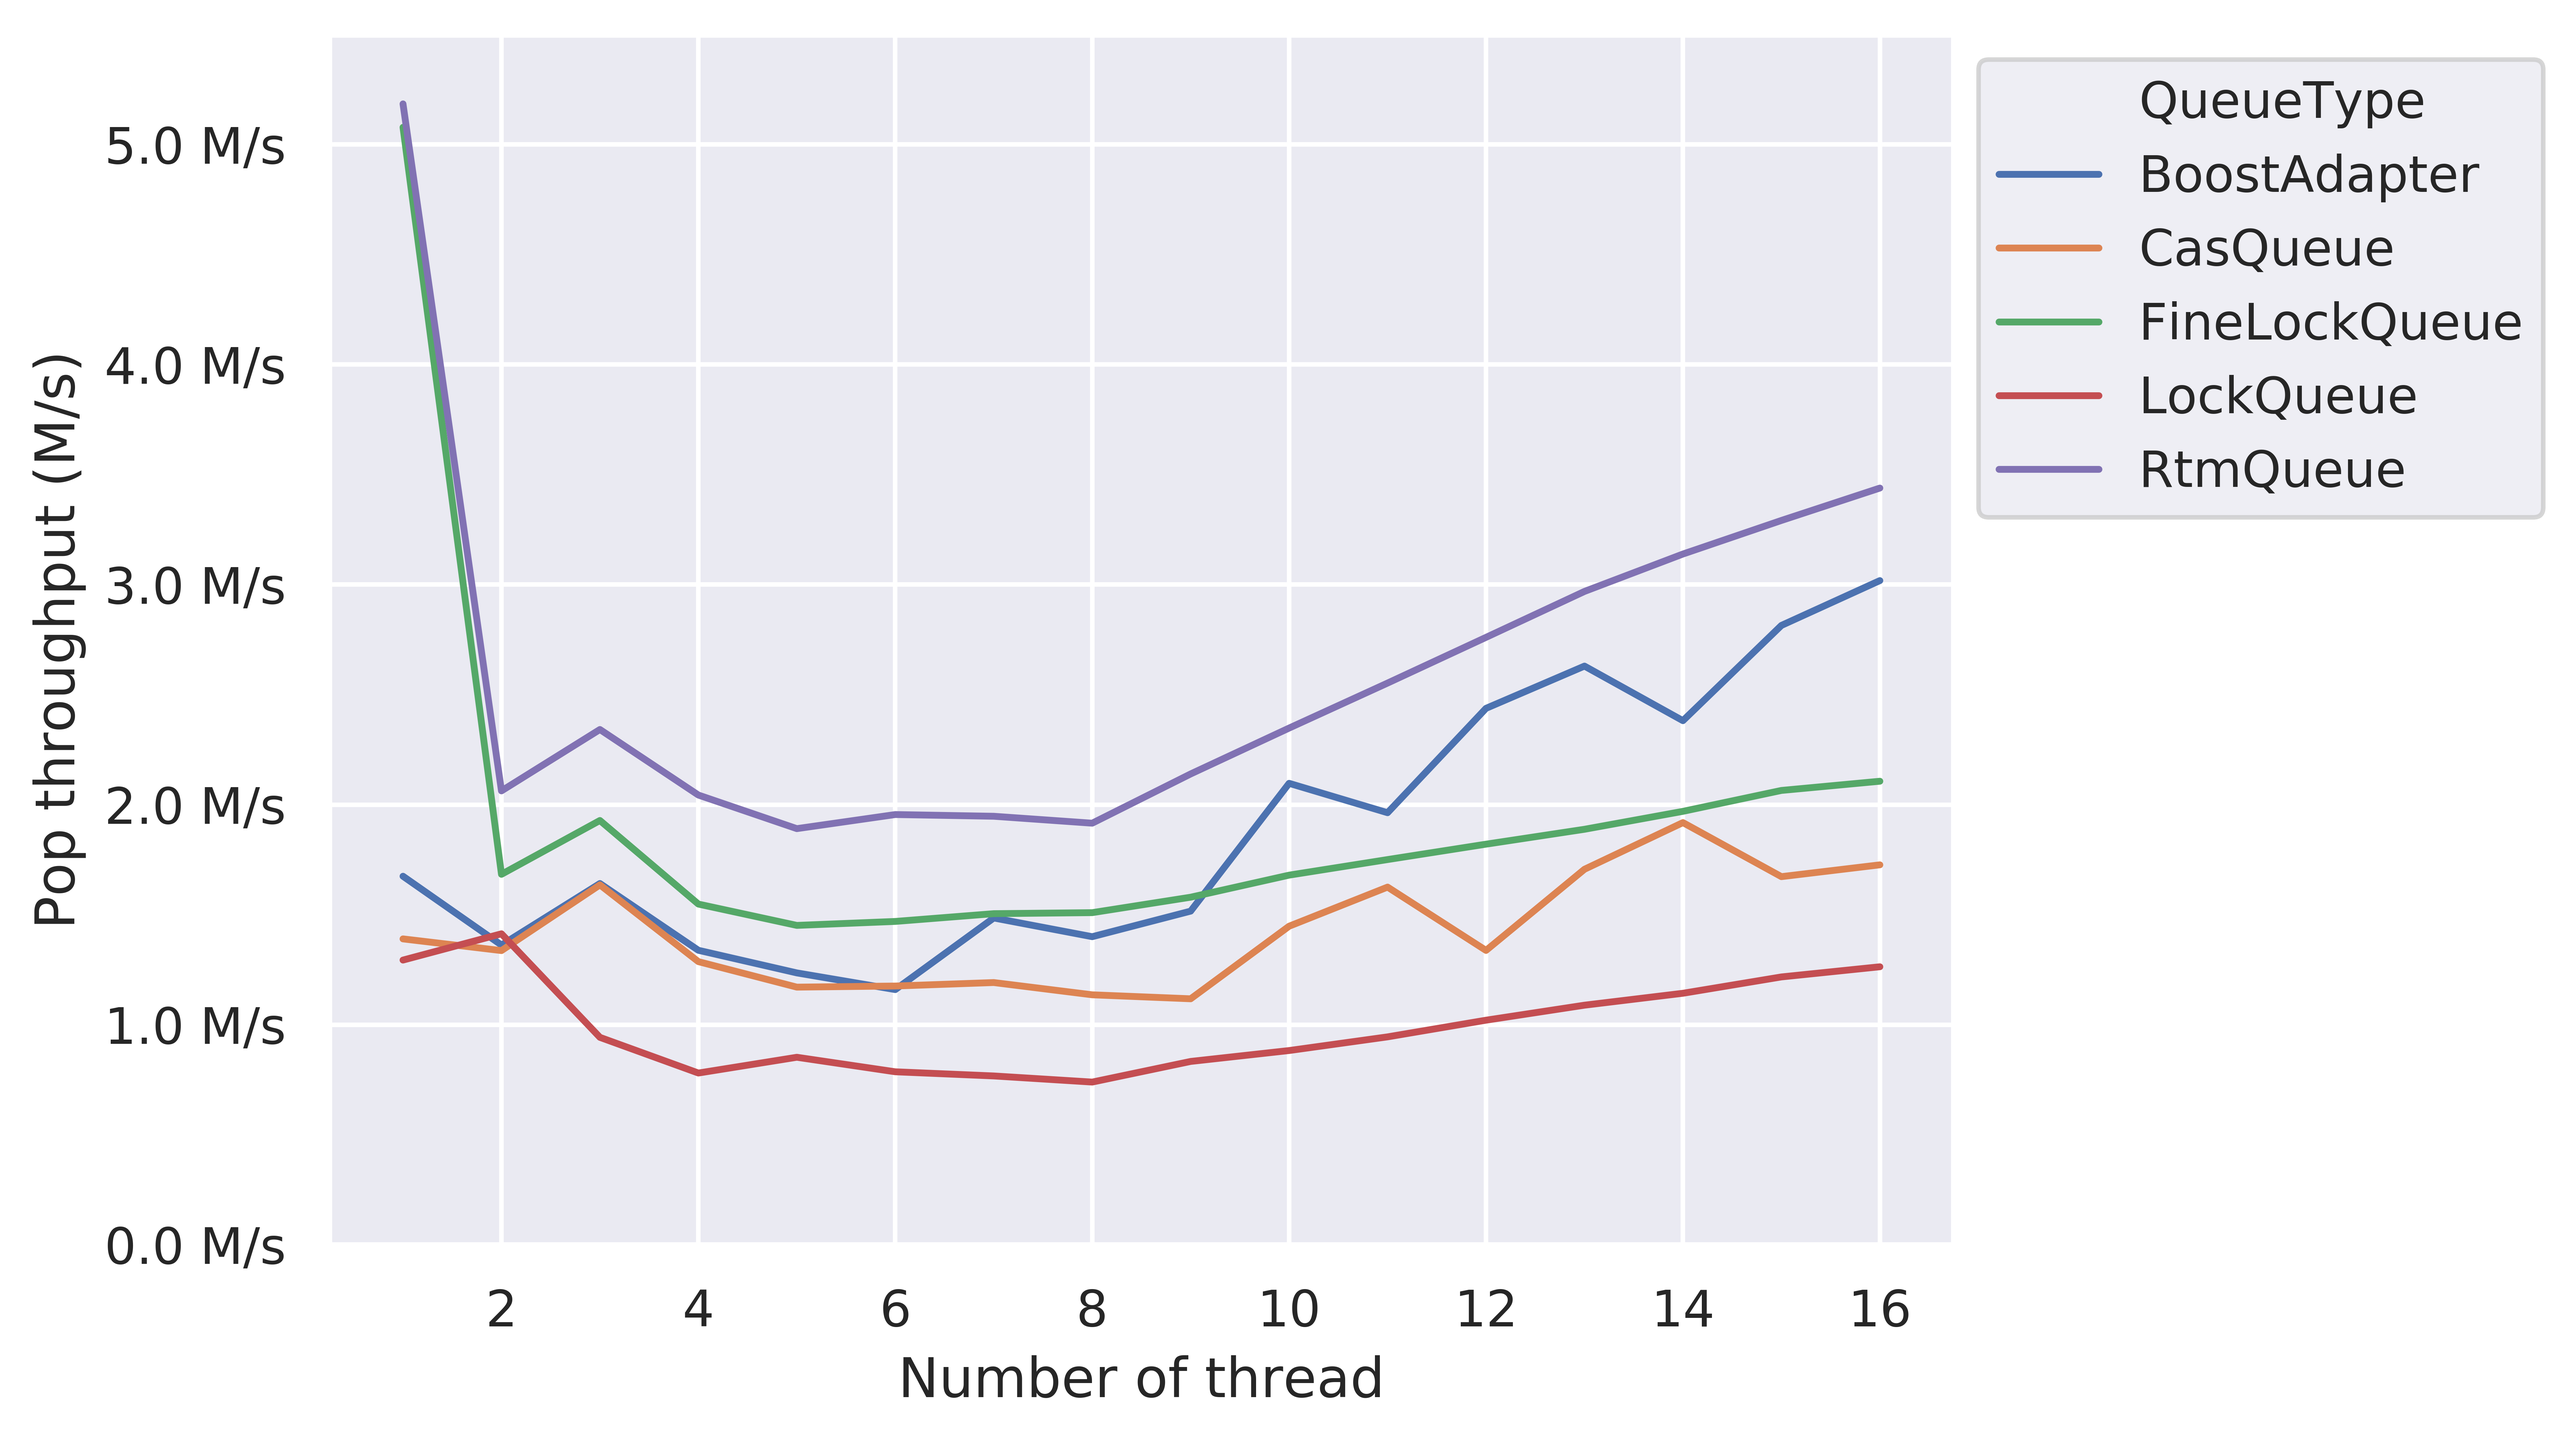
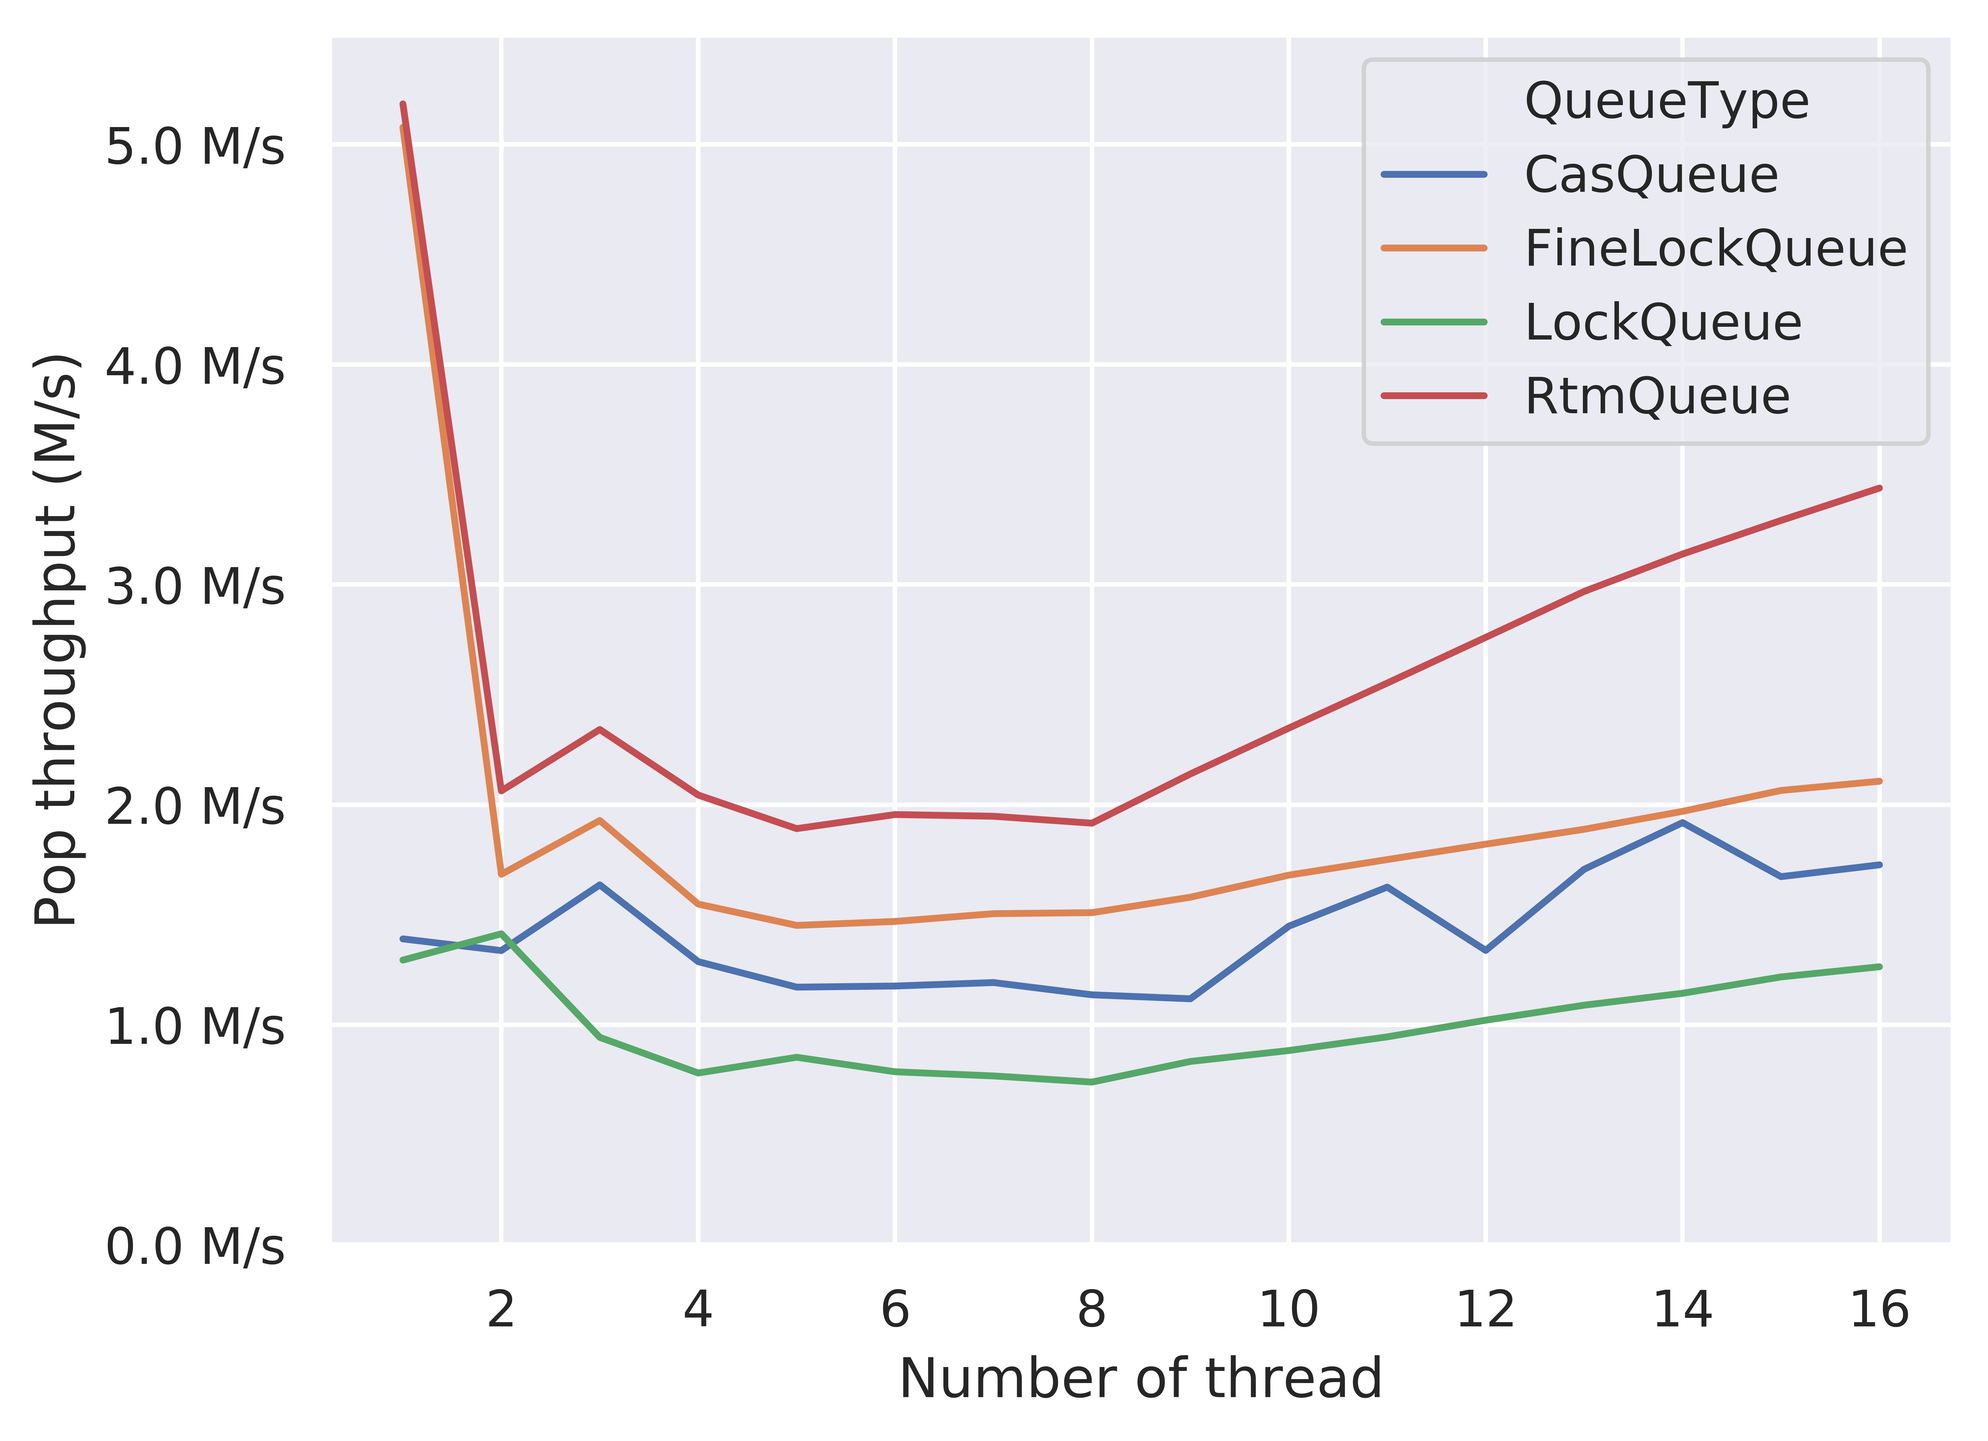
Update result and prepare final report template

diff --git a/result/plot.py b/result/plot.py
@@ -40,6 +40,7 @@ def preprocess(data):
     data['pop_rate'] = data['pop_count'] / data['elapsed_seconds']
     data['push_rate'] = data['push_count'] / data['elapsed_seconds']
 
+    data = data[data['QueueType'] != 'BoostAdapter']
     return data
 
 

diff --git a/doc/final.md b/doc/final.md
@@ -1,0 +1,62 @@
+Project URL: [`https://flowersh0026.github.io/618-final/`](https://flowersh0026.github.io/618-final/)
+
+# Summary
+
+
+# Background
+
+
+# Approach
+
+
+
+# Results
+
+## Effects on Optimization Techniques
+
+```{=latex}
+ \begin{figure}[H]
+    \begin{subfigure}{0.5\textwidth}
+        \includegraphics[width=\textwidth]{../result/opt_RtmQueue_push_rate.png}
+        \caption{RtmQueue Push}
+        \vspace{1em}
+    \end{subfigure}
+    \begin{subfigure}{0.5\textwidth}
+        \includegraphics[width=\textwidth]{../result/opt_CasQueue_push_rate.png}
+        \caption{CasQueue Push}
+        \vspace{1em}
+    \end{subfigure}
+
+    \begin{subfigure}{0.5\textwidth}
+        \includegraphics[width=\textwidth]{../result/opt_RtmQueue_pop_rate.png}
+        \caption{RtmQueue Pop}
+    \end{subfigure}
+    \begin{subfigure}{0.5\textwidth}
+        \includegraphics[width=\textwidth]{../result/opt_CasQueue_pop_rate.png}
+        \caption{CasQueue Pop}
+    \end{subfigure}
+
+    \caption{Effects on different optimization techniques (jemalloc and cache line alignment).}
+\end{figure}
+ ```
+
+## Performance comparison
+
+<!-- You can replace the markdown-style image insertion by the latex-style
+image insertion, which allows using {figure}[H]. -->
+![Performance comparison on push operations.](../result/push_throughput.png)
+
+![Performance comparison on pop operations.](../result/pop_throughput.png)
+
+
+
+
+
+# References
+
+[1] Maged M. Michael and Michael L. Scott. 1996. Simple, fast, and practical
+non-blocking and blocking concurrent queue algorithms. In Proceedings of the
+fifteenth annual ACM symposium on Principles of distributed computing (PODC
+'96). ACM, New York, NY, USA, 267-275.
+
+<!-- TODO: a final section is required to be included in the final report. -->

diff --git a/doc/final_meta.md b/doc/final_meta.md
@@ -1,0 +1,17 @@
+---
+title: Concurrent Distributed Dynamic Sized Queue
+author:
+    - Yunjia Wang (yunjiaw@andrew.cmu.edu)
+    - Jiaan Dai (jiaand@andrew.cmu.edu)
+date: Dec 9, 2019
+papersize: letter
+fontsize: 12pt
+documentclass: article
+geometry: margin=1in
+mainfont: Times New Roman
+monofont: Menlo
+numbersections: true
+header-includes:
+    - \usepackage{subcaption}
+    - \usepackage{float}
+...
